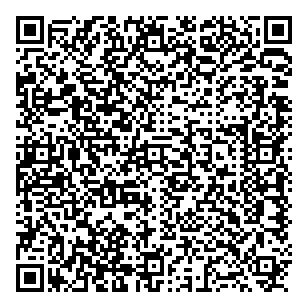
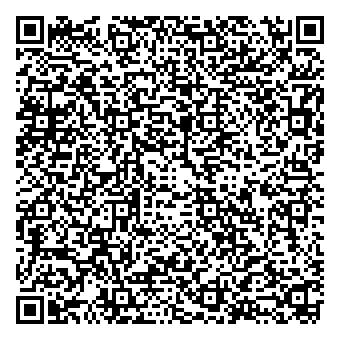
backend fixes

diff --git a/routes/cardHandling.js b/routes/cardHandling.js
@@ -2,10 +2,10 @@ const express = require('express');
 const router = express.Router();
 const cardController = require('../controllers/cardController');
 
-router.get("/get-cards", (res, req) => cardController.getCards(res, req));
-router.post("/add-card", (res, req) => cardController.addCard(res, req));
-router.delete("/delete-card", (res, req) => cardController.deleteCard(res, req));
-router.patch("/update-card", (res, req) => cardController.updateCard(res, req));
-router.get("/get-card", (res, req) => cardController.getCard(res, req));
+router.get("/get-cards", (req, res) => cardController.getCards(req, res));
+router.post("/add-card", (req, res) => cardController.addCard(req, res));
+router.delete("/delete-card", (req, res) => cardController.deleteCard(req, res));
+router.patch("/update-card", (req, res) => cardController.updateCard(req, res));
+router.get("/get-card", (req, res) => cardController.getCard(req, res));
 
 module.exports = router;

diff --git a/routes/accountHandling.js b/routes/accountHandling.js
@@ -4,9 +4,9 @@ const accountController = require('../controllers/accountController');
 const multer = require('multer');
 const upload = multer({ storage: multer.memoryStorage() });
 
-router.post("/create-account", (res, req) => accountController.createAccount(res, req));
-router.post("/login", (res, req) => accountController.login(res, req));
-router.get("/get-userInfo", (res, req) => accountController.getUserInfo(res, req));
-router.post("/logout", (res, req) => accountController.logout(res, req));
+router.post("/create-account", (req, res) => accountController.createAccount(req, res));
+router.post("/login", (req, res) => accountController.login(req, res));
+router.get("/get-userInfo", (req, res) => accountController.getUserInfo(req, res));
+router.post("/logout", (req, res) => accountController.logout(req, res));
 
 module.exports = router;

diff --git a/routes/receiptHandling.js b/routes/receiptHandling.js
@@ -4,7 +4,7 @@ const receipentController = require('../controllers/receiptController');
 const multer = require('multer');
 const upload = multer({ storage: multer.memoryStorage() });
 
-router.post("/generate-qr-code", (res, req) => receipentController.generateQRCode(res, req));
-router.post("/payment-transaction", (res, req) => receipentController.paymentTransaction(res, req));
+router.post("/generate-qr-code", (req, res) => receipentController.generateQRCode(req, res));
+router.post("/payment-transaction", (req, res) => receipentController.paymentTransaction(req ,res));
 
 module.exports = router;

diff --git a/services/seedQrCode.js b/services/seedQrCode.js
@@ -3,7 +3,10 @@ const fs = require('fs');
 
 const generateTestQRCode = async () => {
     try {
-        const testData = {
+        const testData = 
+        {
+          "emailAddress": "Sathwik@hotmail.com",
+          "receiptTransaction":{
             "userId": "1",
             "total": 100.00,
             "emailAddress": "Sathwik@hotmail.com",
@@ -28,6 +31,7 @@ const generateTestQRCode = async () => {
               }
             ]
           }
+        };
 
         let qrCodeStream = fs.createWriteStream('test-qr-code.png');
 

diff --git a/routes/loyaltyHandling.js b/routes/loyaltyHandling.js
@@ -4,7 +4,7 @@ const loyaltyController = require('../controllers/loyaltyController');
 const multer = require('multer');
 const upload = multer({ storage: multer.memoryStorage() });
 
-router.get("/get-loyalty-profile", (res, req) => loyaltyController.getLoyaltyProfile(res, req));
+router.get("/get-loyalty-profile", (req, res) => loyaltyController.getLoyaltyProfile(req, res));
 
 
 module.exports = router;
